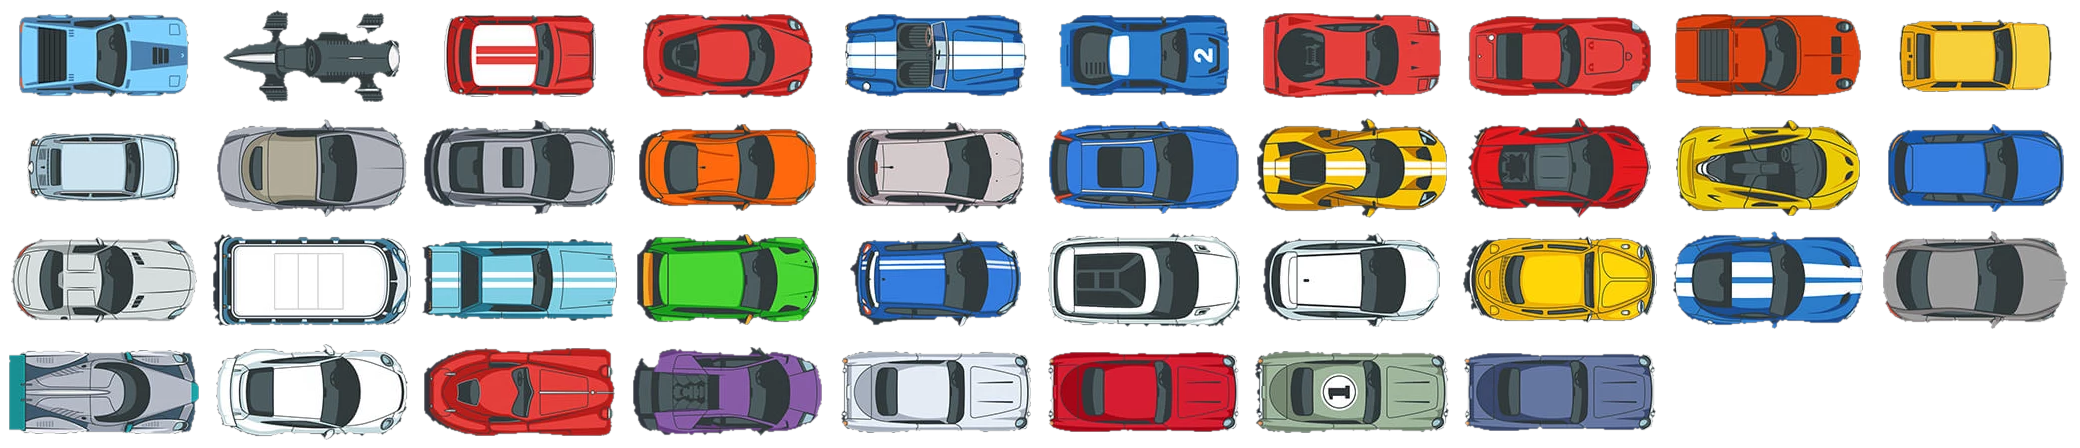
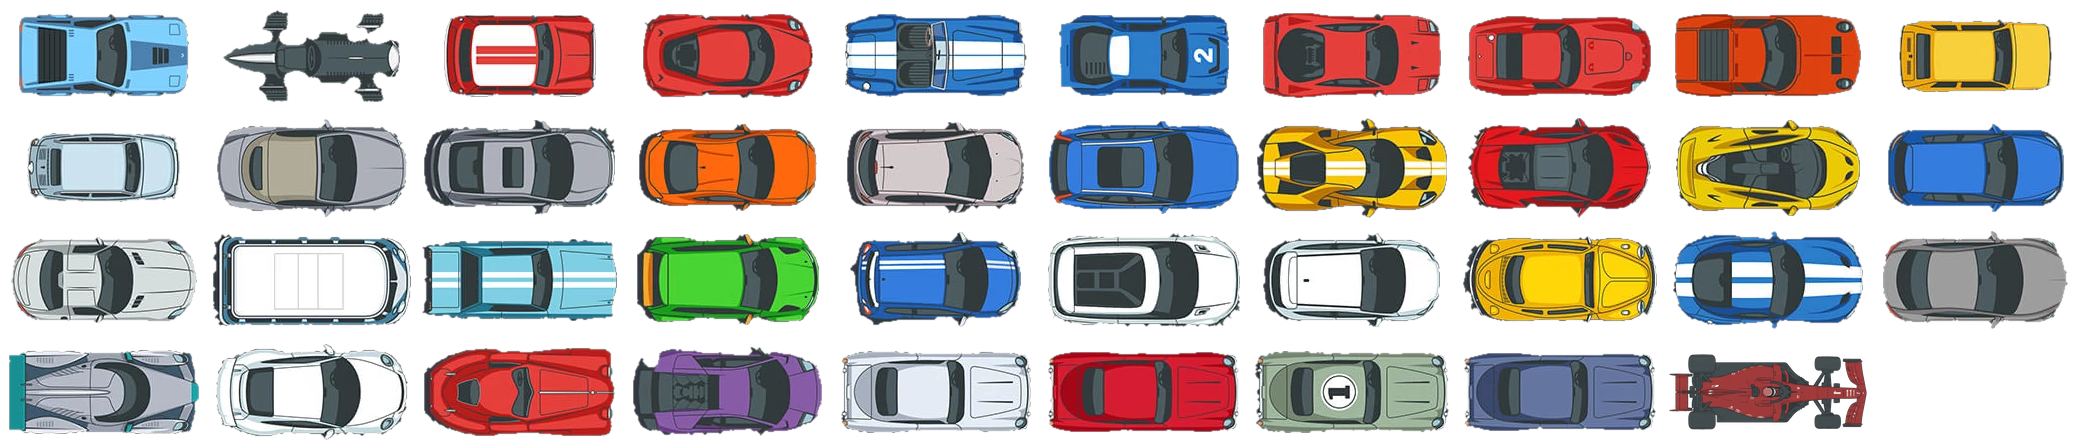
F1 auto toegevoegd

Changed region(s): [[0.7812, 0.7812, 0.9062, 0.9688]]

diff --git a/10racegame/race_game/racegame_gp.py b/10racegame/race_game/racegame_gp.py
@@ -76,7 +76,7 @@ STAT_MAX = 10                               # tuning: elk onderdeel vrij van 0 t
 STAT_NAMES = ["Topsnelheid", "Acceleratie", "Wendbaarheid", "Nitro"]
 SHEET_FILE = os.path.join(os.path.dirname(os.path.abspath(__file__)), "cars_sheet.png")
 SHEET_COLS, CELL_W, CELL_H = 10, 208, 112      # indeling van cars_sheet.png
-NUM_CARS = 38                                  # aantal auto's in de sheet
+NUM_CARS = 39                                  # aantal auto's in de sheet
 TINT_STEPS = 24                                # kleurtint-standen in de garage
 
 SAVE_FILE = os.path.join(os.path.dirname(os.path.abspath(__file__)), "racegame_save.json")
